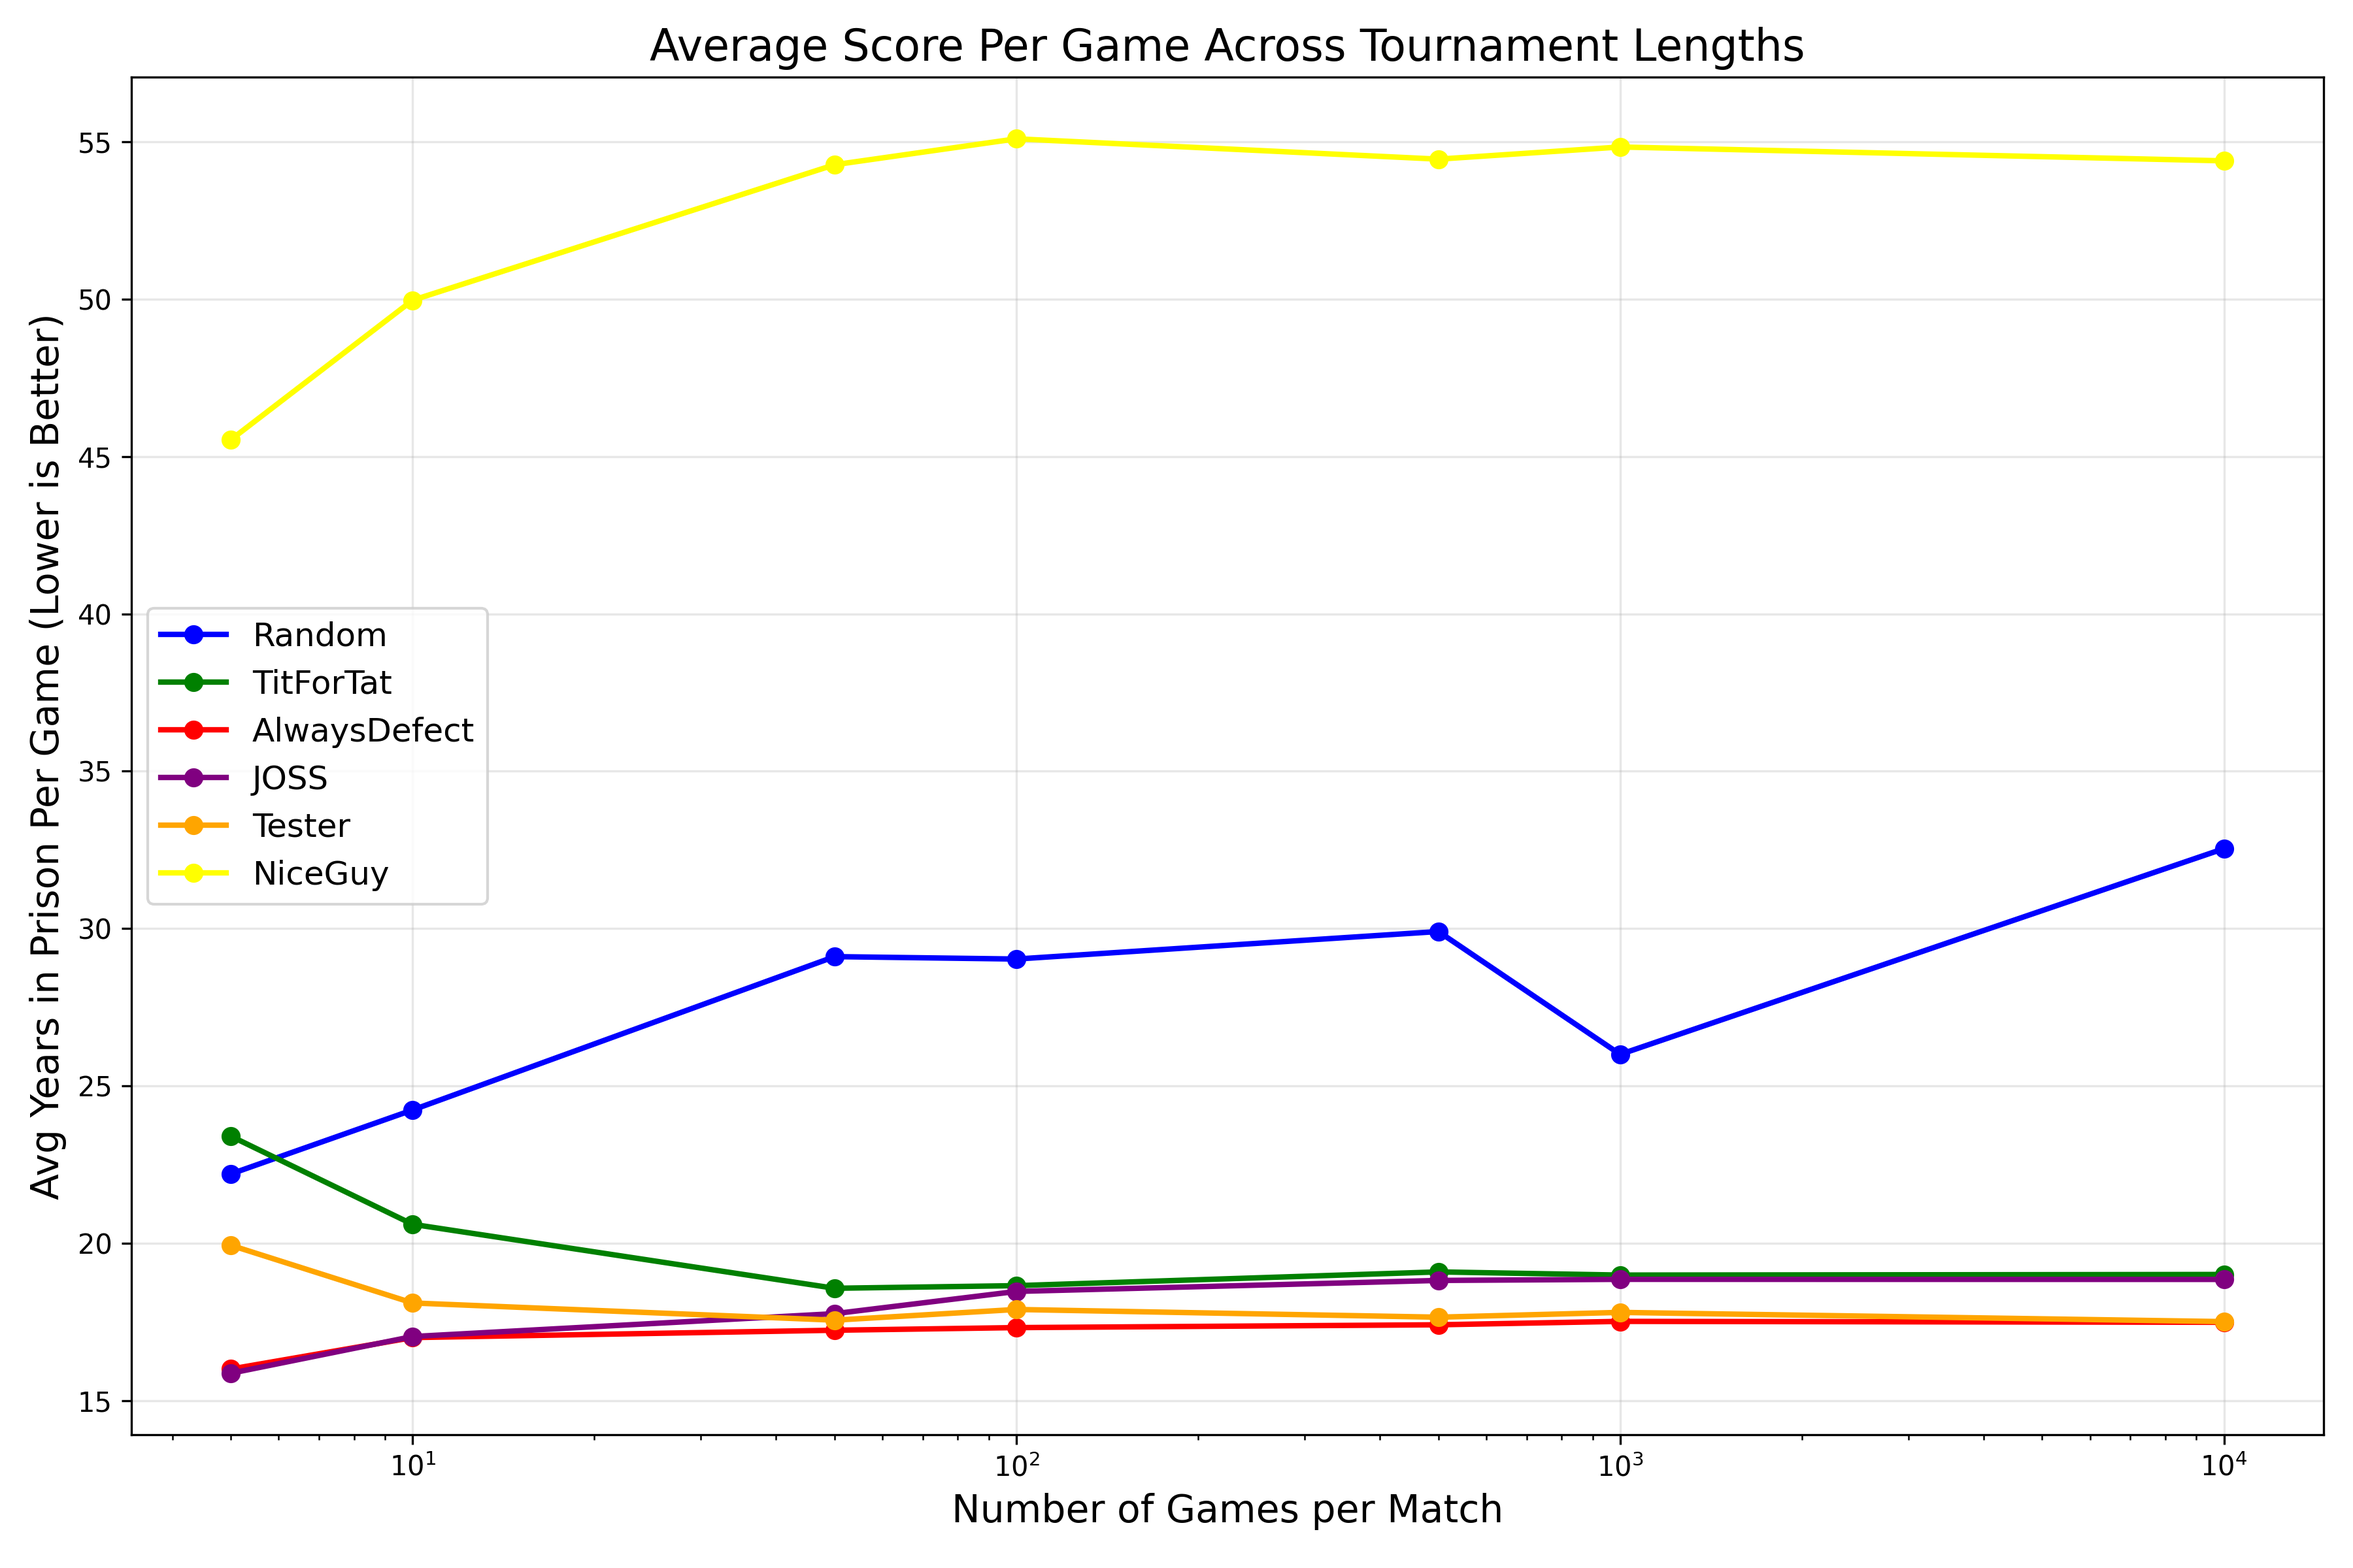
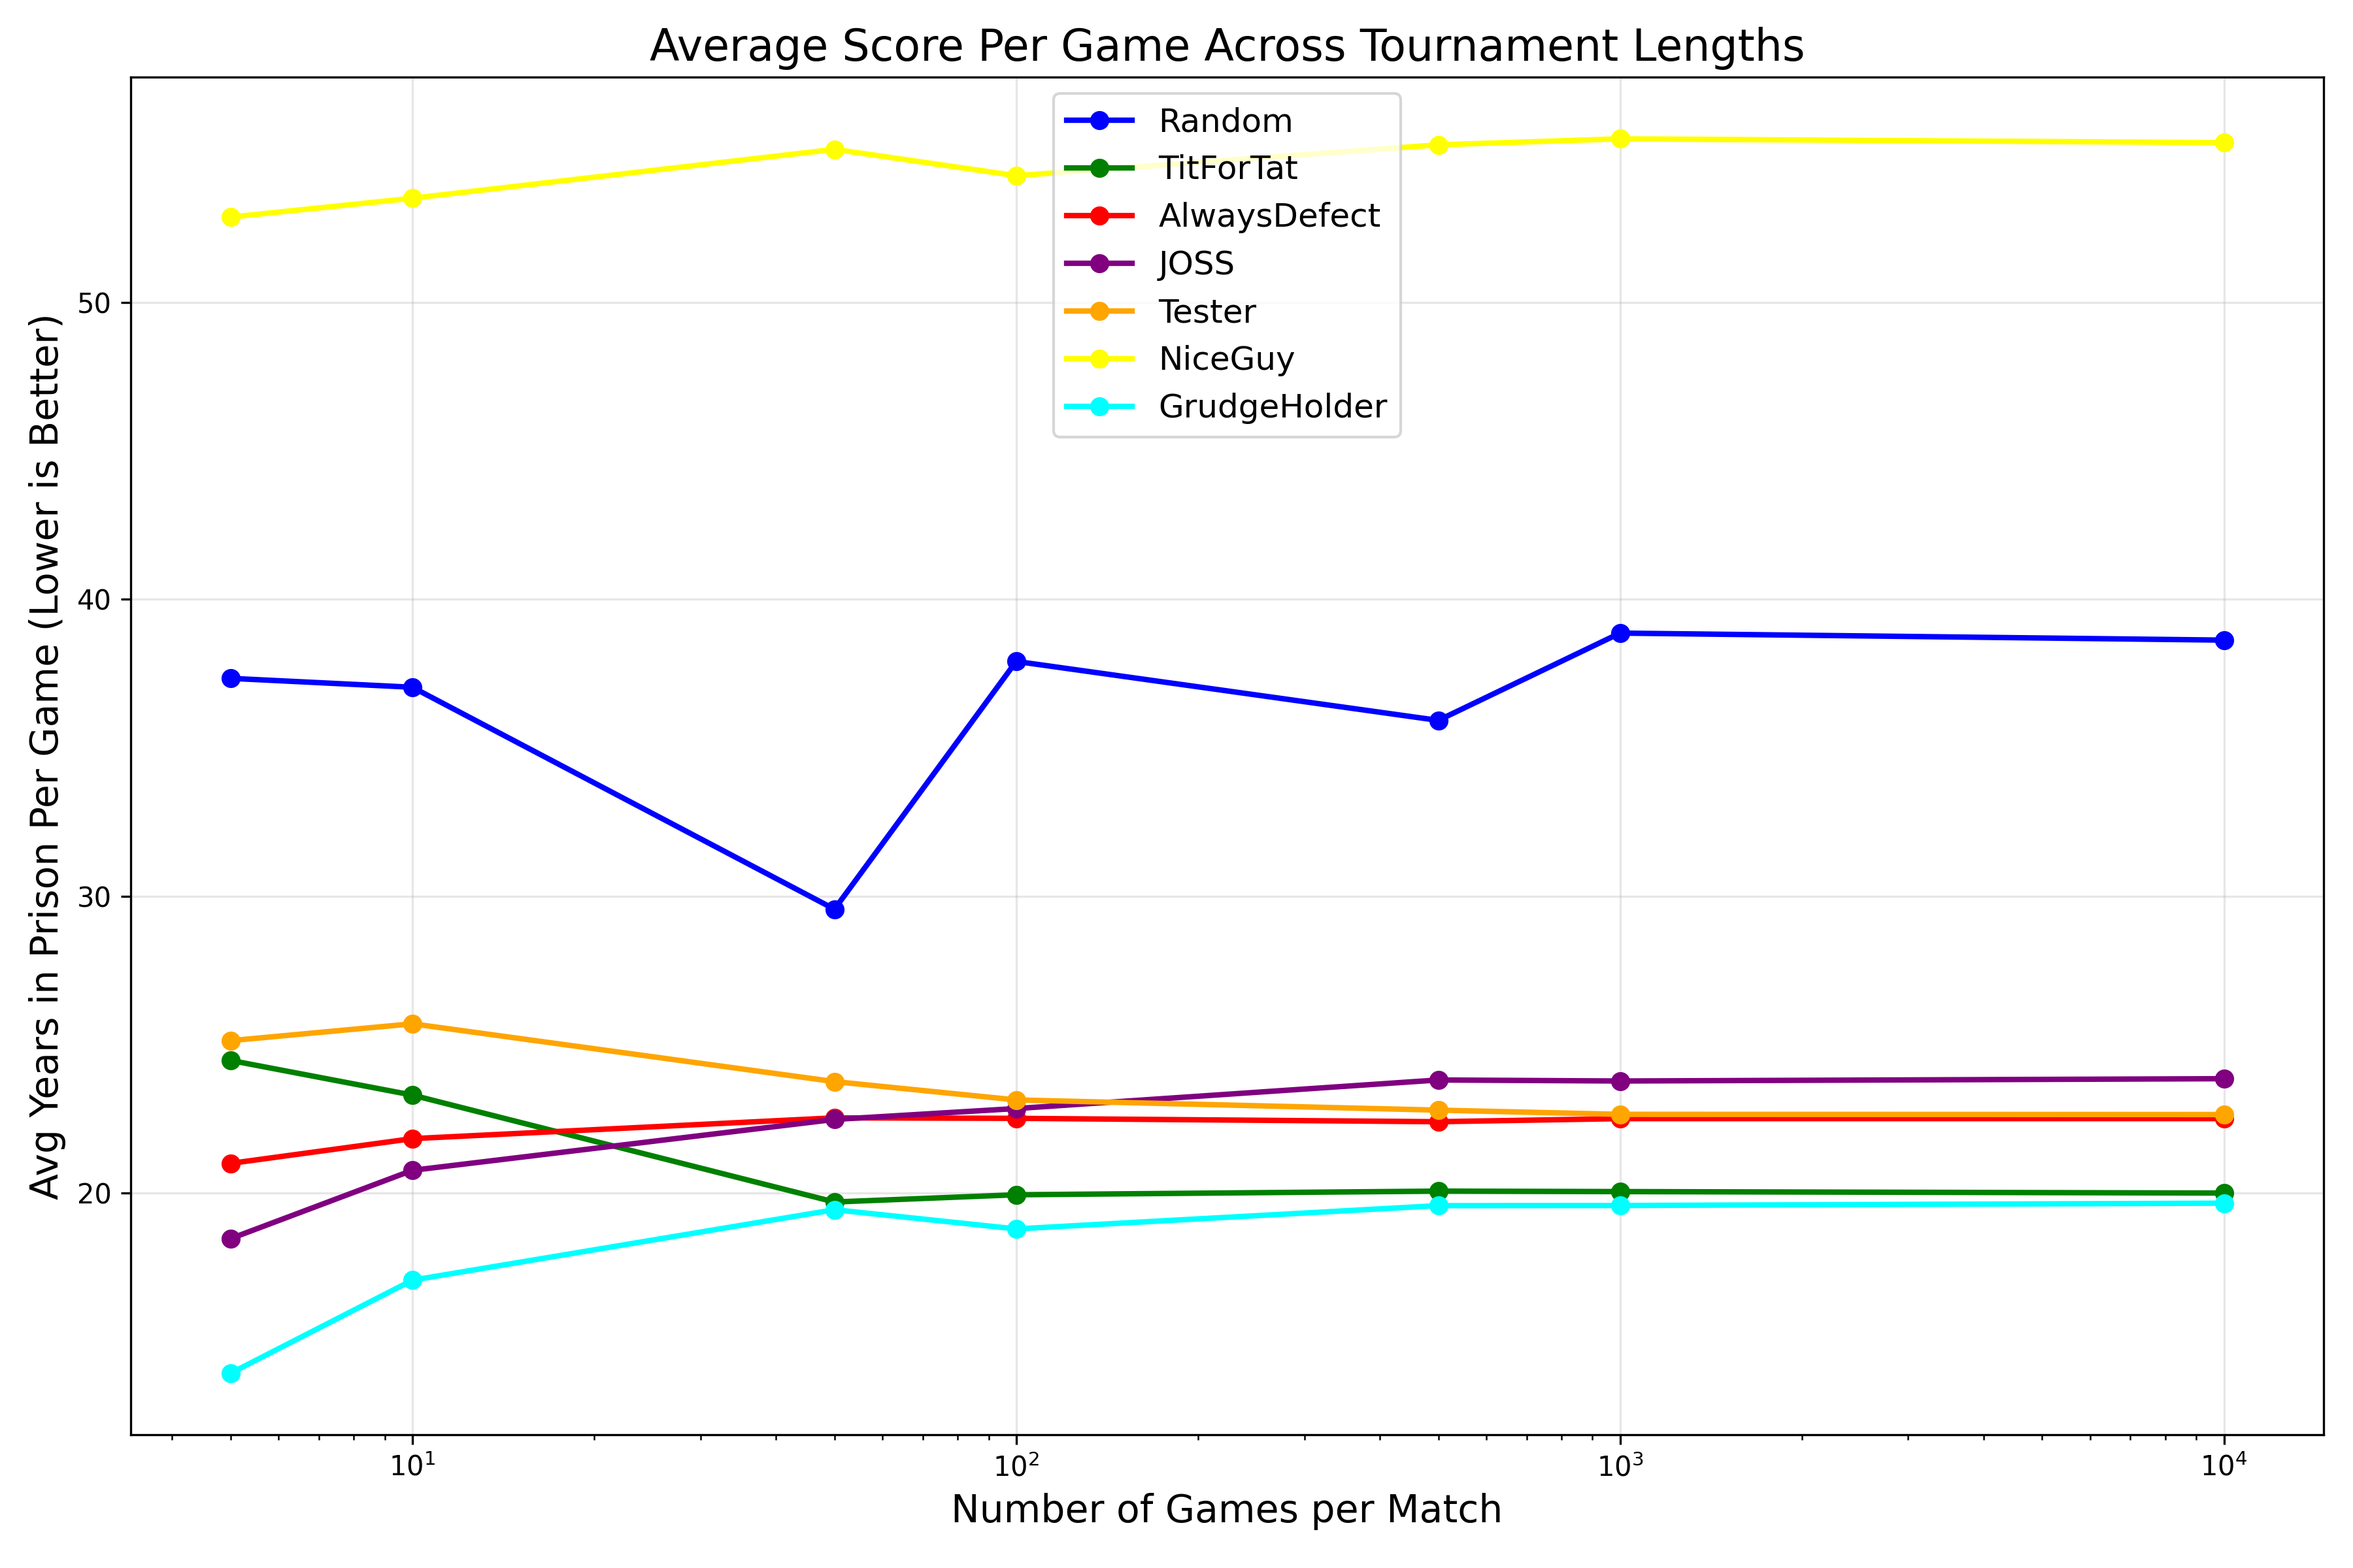
Add GrudgeHolder player strategy

diff --git a/src/players/grudgeHolder.py b/src/players/grudgeHolder.py
@@ -1,0 +1,67 @@
+from players.base_player import BasePlayer
+
+
+class GrudgeHolder(BasePlayer):
+    """
+    A player that cooperates until the opponent defects.
+    Once defected against, it holds a grudge and defects for a fixed number
+    of rounds, then offers one chance for forgiveness by cooperating.
+    If the opponent defects during the forgiveness round, the grudge continues.
+    """
+    def __init__(self, grudge_duration=5):
+        super().__init__()
+        self.grudge_duration = grudge_duration
+        self.holding_grudge = False
+        self.grudge_counter = 0
+
+    def initial_action(self):
+        action = "cooperate"
+        self.past_actions.append(action)
+        return action
+
+    def get_action(self, opponents_history: list):
+        if not opponents_history:
+            return self.initial_action()
+
+        last_opponent_action = opponents_history[-1]
+        my_action = "cooperate" # Default optimistic action
+
+        if self.holding_grudge:
+            self.grudge_counter += 1
+            if self.grudge_counter <= self.grudge_duration:
+                # Still holding the grudge
+                my_action = "defect"
+            else:
+                # Offer forgiveness
+                my_action = "cooperate"
+                # We will check opponent's response in the *next* round
+        else:
+            # Not holding a grudge currently
+            if last_opponent_action == "defect":
+                # Opponent just defected! Start the grudge.
+                self.holding_grudge = True
+                self.grudge_counter = 1 # Start counting grudge rounds
+                my_action = "defect"
+            else:
+                # Opponent cooperated, so we cooperate too.
+                my_action = "cooperate"
+
+        # Check if we just offered forgiveness and how the opponent responded
+        if self.grudge_counter == self.grudge_duration + 1: # We just played the forgiveness COOPERATE
+            if last_opponent_action == "defect":
+                # They defected on our forgiveness! Grudge continues.
+                self.grudge_counter = 1 # Reset counter for another cycle
+                my_action = "defect" # Defect immediately
+            else:
+                # They cooperated! Forgiveness accepted. Drop the grudge.
+                self.holding_grudge = False
+                self.grudge_counter = 0
+                my_action = "cooperate" # Cooperate next round
+
+        self.past_actions.append(my_action)
+        return my_action
+
+    def reset(self):
+        super().reset()
+        self.holding_grudge = False
+        self.grudge_counter = 0

diff --git a/src/main.py b/src/main.py
@@ -3,6 +3,7 @@ from players.t4t import TIT_FOR_TAT
 from players.all_d import ALL_D
 from players.niceguy import NICE_GUY
 from players.joss import JOSS
+from players.grudgeHolder import GrudgeHolder
 from players.tester import Tester
 from playground import PlayGround
 import matplotlib.pyplot as plt
@@ -108,7 +109,8 @@ def run_tournament(show_individual_games=False):
         (ALL_D(), "AlwaysDefect"),
         (JOSS(), "JOSS"),
         (Tester(), "Tester"),
-        (NICE_GUY(), "NiceGuy")
+        (NICE_GUY(), "NiceGuy"),
+        (GrudgeHolder(), "GrudgeHolder")
     ]
     
     # Run a range of small and large tournament sizes
@@ -139,7 +141,8 @@ def run_tournament(show_individual_games=False):
                 (ALL_D(), "AlwaysDefect"),
                 (JOSS(), "JOSS"),
                 (Tester(), "Tester"),
-                 (NICE_GUY(), "NiceGuy")
+                (NICE_GUY(), "NiceGuy"),
+                (GrudgeHolder(), "GrudgeHolder")
             ]
             
             scores, details, strategy_scores_by_game = tournament_round(
@@ -198,7 +201,8 @@ def visualize_tournament_results(all_tournament_scores, all_tournament_details):
         'AlwaysDefect': 'red',
         'JOSS': 'purple',
         'Tester': 'orange',
-        'NiceGuy': 'yellow'
+        'NiceGuy': 'yellow',
+        'GrudgeHolder': 'cyan'
     }
     
     # Extract data for plotting
